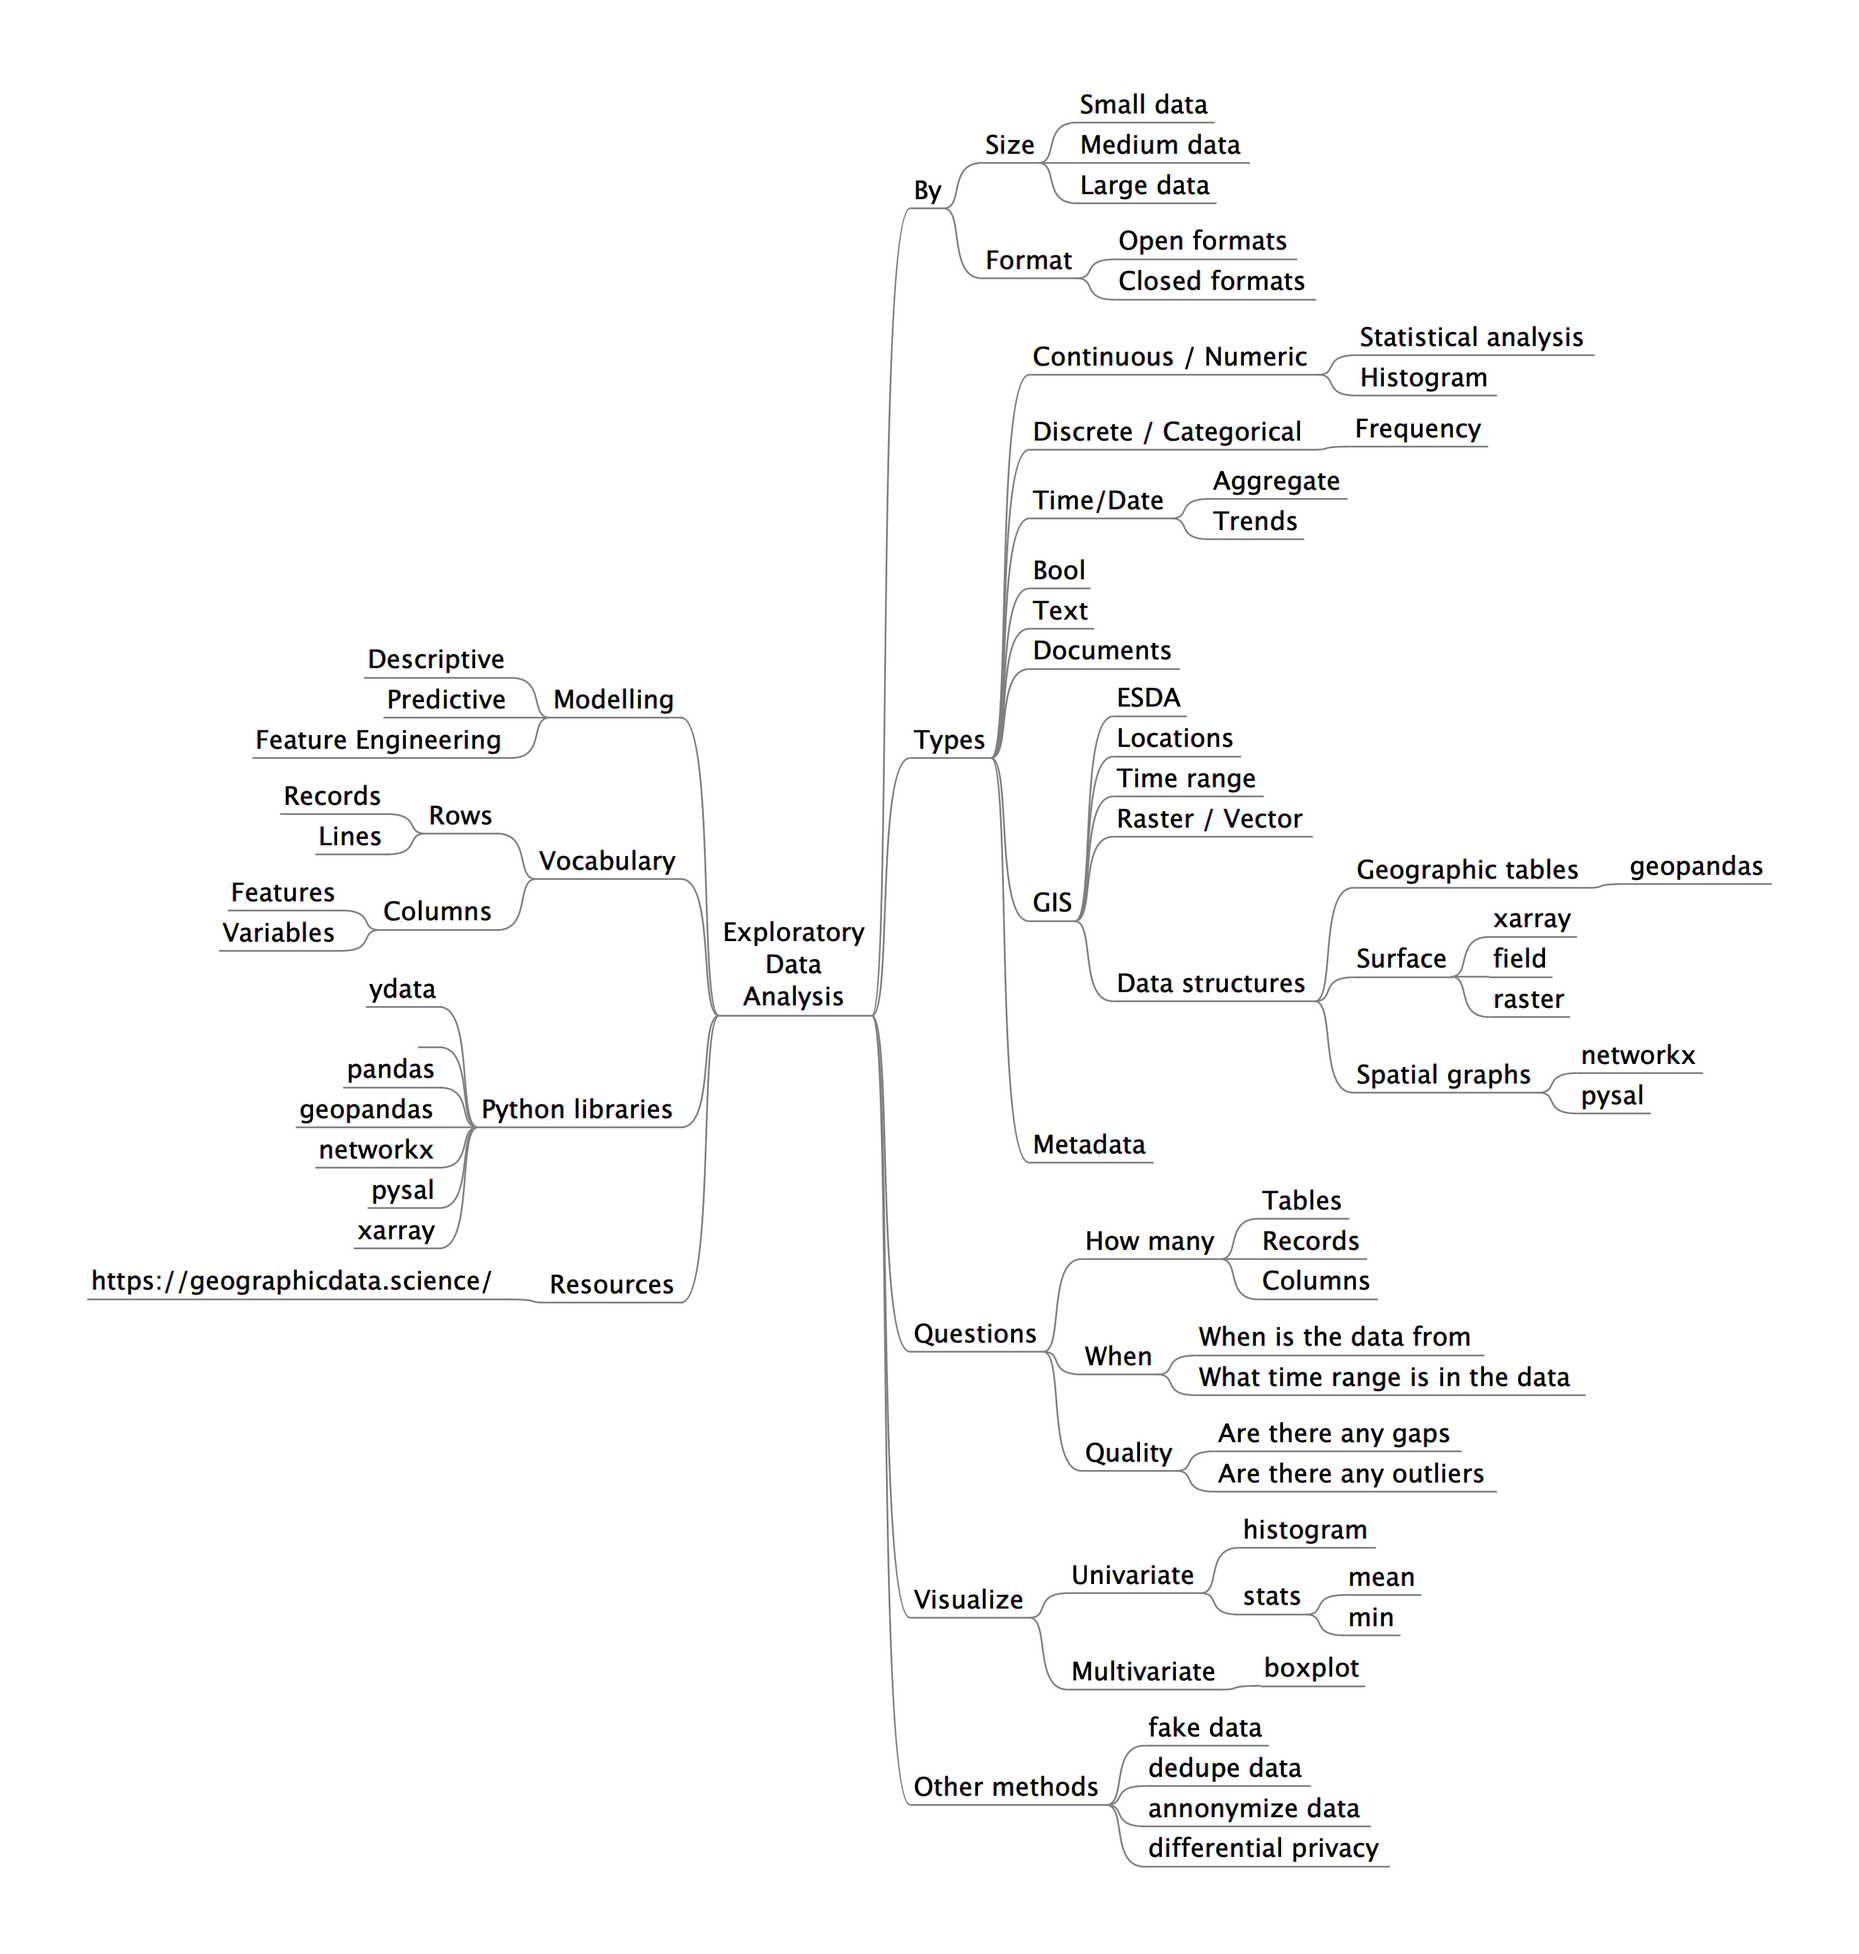
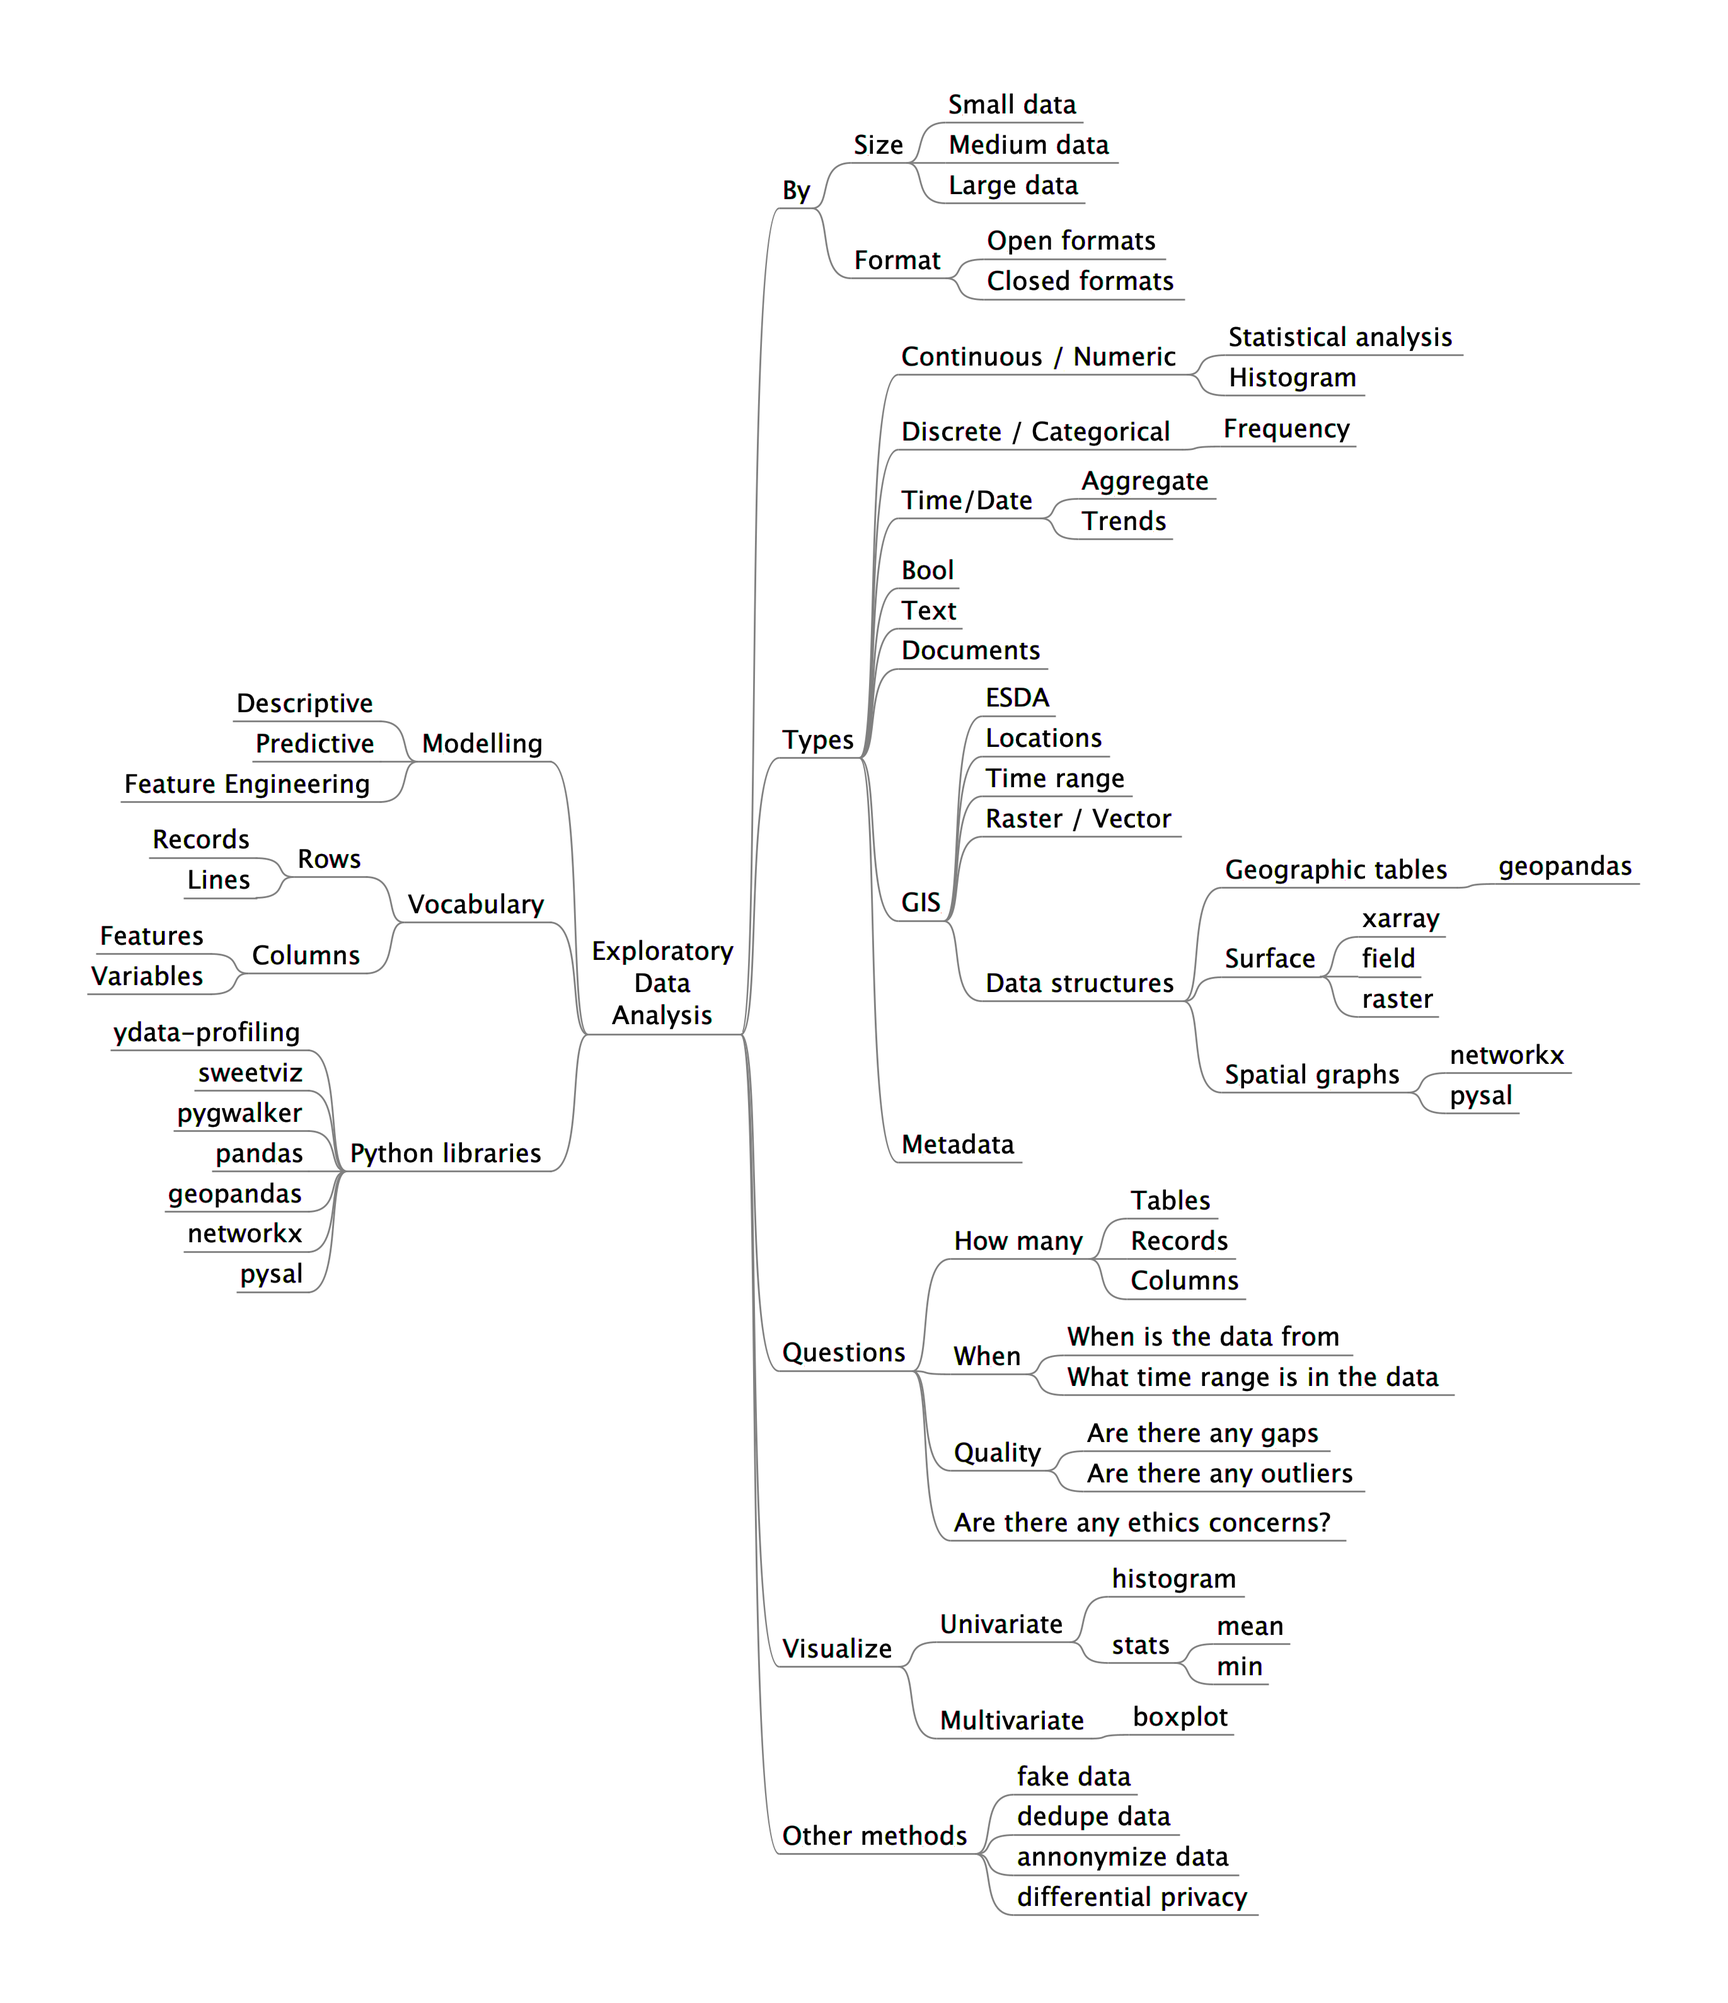
Add mindmap

diff --git a/eda.mm b/eda.mm
@@ -1,0 +1,176 @@
+<map version="freeplane 1.11.5">
+<!--To view this file, download free mind mapping software Freeplane from https://www.freeplane.org -->
+<node TEXT="Exploratory&#xa;Data&#xa;Analysis" FOLDED="false" ID="ID_1122789912" CREATED="1698519591730" MODIFIED="1698519608608"><hook NAME="MapStyle">
+    <properties edgeColorConfiguration="#808080ff,#ff0000ff,#0000ffff,#00ff00ff,#ff00ffff,#00ffffff,#7c0000ff,#00007cff,#007c00ff,#7c007cff,#007c7cff,#7c7c00ff" fit_to_viewport="false" show_icon_for_attributes="true" show_note_icons="true"/>
+
+<map_styles>
+<stylenode LOCALIZED_TEXT="styles.root_node" STYLE="oval" UNIFORM_SHAPE="true" VGAP_QUANTITY="24 pt">
+<font SIZE="24"/>
+<stylenode LOCALIZED_TEXT="styles.predefined" POSITION="bottom_or_right" STYLE="bubble">
+<stylenode LOCALIZED_TEXT="default" ID="ID_271890427" ICON_SIZE="12 pt" COLOR="#000000" STYLE="fork">
+<arrowlink SHAPE="CUBIC_CURVE" COLOR="#000000" WIDTH="2" TRANSPARENCY="200" DASH="" FONT_SIZE="9" FONT_FAMILY="SansSerif" DESTINATION="ID_271890427" STARTARROW="NONE" ENDARROW="DEFAULT"/>
+<font NAME="SansSerif" SIZE="10" BOLD="false" ITALIC="false"/>
+<richcontent TYPE="DETAILS" CONTENT-TYPE="plain/auto"/>
+<richcontent TYPE="NOTE" CONTENT-TYPE="plain/auto"/>
+</stylenode>
+<stylenode LOCALIZED_TEXT="defaultstyle.details"/>
+<stylenode LOCALIZED_TEXT="defaultstyle.attributes">
+<font SIZE="9"/>
+</stylenode>
+<stylenode LOCALIZED_TEXT="defaultstyle.note" COLOR="#000000" BACKGROUND_COLOR="#ffffff" TEXT_ALIGN="LEFT"/>
+<stylenode LOCALIZED_TEXT="defaultstyle.floating">
+<edge STYLE="hide_edge"/>
+<cloud COLOR="#f0f0f0" SHAPE="ROUND_RECT"/>
+</stylenode>
+<stylenode LOCALIZED_TEXT="defaultstyle.selection" BACKGROUND_COLOR="#afd3f7" BORDER_COLOR_LIKE_EDGE="false" BORDER_COLOR="#afd3f7"/>
+</stylenode>
+<stylenode LOCALIZED_TEXT="styles.user-defined" POSITION="bottom_or_right" STYLE="bubble">
+<stylenode LOCALIZED_TEXT="styles.topic" COLOR="#18898b" STYLE="fork">
+<font NAME="Liberation Sans" SIZE="10" BOLD="true"/>
+</stylenode>
+<stylenode LOCALIZED_TEXT="styles.subtopic" COLOR="#cc3300" STYLE="fork">
+<font NAME="Liberation Sans" SIZE="10" BOLD="true"/>
+</stylenode>
+<stylenode LOCALIZED_TEXT="styles.subsubtopic" COLOR="#669900">
+<font NAME="Liberation Sans" SIZE="10" BOLD="true"/>
+</stylenode>
+<stylenode LOCALIZED_TEXT="styles.important" ID="ID_67550811">
+<icon BUILTIN="yes"/>
+<arrowlink COLOR="#003399" TRANSPARENCY="255" DESTINATION="ID_67550811"/>
+</stylenode>
+</stylenode>
+<stylenode LOCALIZED_TEXT="styles.AutomaticLayout" POSITION="bottom_or_right" STYLE="bubble">
+<stylenode LOCALIZED_TEXT="AutomaticLayout.level.root" COLOR="#000000" STYLE="oval" SHAPE_HORIZONTAL_MARGIN="10 pt" SHAPE_VERTICAL_MARGIN="10 pt">
+<font SIZE="18"/>
+</stylenode>
+<stylenode LOCALIZED_TEXT="AutomaticLayout.level,1" COLOR="#0033ff">
+<font SIZE="16"/>
+</stylenode>
+<stylenode LOCALIZED_TEXT="AutomaticLayout.level,2" COLOR="#00b439">
+<font SIZE="14"/>
+</stylenode>
+<stylenode LOCALIZED_TEXT="AutomaticLayout.level,3" COLOR="#990000">
+<font SIZE="12"/>
+</stylenode>
+<stylenode LOCALIZED_TEXT="AutomaticLayout.level,4" COLOR="#111111">
+<font SIZE="10"/>
+</stylenode>
+<stylenode LOCALIZED_TEXT="AutomaticLayout.level,5"/>
+<stylenode LOCALIZED_TEXT="AutomaticLayout.level,6"/>
+<stylenode LOCALIZED_TEXT="AutomaticLayout.level,7"/>
+<stylenode LOCALIZED_TEXT="AutomaticLayout.level,8"/>
+<stylenode LOCALIZED_TEXT="AutomaticLayout.level,9"/>
+<stylenode LOCALIZED_TEXT="AutomaticLayout.level,10"/>
+<stylenode LOCALIZED_TEXT="AutomaticLayout.level,11"/>
+</stylenode>
+</stylenode>
+</map_styles>
+</hook>
+<node TEXT="By" POSITION="bottom_or_right" ID="ID_83050720" CREATED="1698519609954" MODIFIED="1698519621032">
+<node TEXT="Size" ID="ID_1162008450" CREATED="1698519621394" MODIFIED="1698519623233">
+<node TEXT="Small data" ID="ID_1060160019" CREATED="1698519955548" MODIFIED="1698519962160"/>
+<node TEXT="Medium data" ID="ID_1662055890" CREATED="1698519962303" MODIFIED="1698519965183"/>
+<node TEXT="Large data" ID="ID_383174318" CREATED="1698519965355" MODIFIED="1698519967935"/>
+</node>
+<node TEXT="Format" ID="ID_258649436" CREATED="1698519623665" MODIFIED="1698519635468">
+<node TEXT="Open formats" ID="ID_1922638540" CREATED="1698519969557" MODIFIED="1698519977736"/>
+<node TEXT="Closed formats" ID="ID_762052706" CREATED="1698519977920" MODIFIED="1698519983335"/>
+</node>
+</node>
+<node TEXT="Types" POSITION="bottom_or_right" ID="ID_680999524" CREATED="1698519642142" MODIFIED="1698519644504">
+<node TEXT="Continuous / Numeric" ID="ID_747903519" CREATED="1698519644768" MODIFIED="1698596664711">
+<node TEXT="Statistical analysis" ID="ID_1319336939" CREATED="1698519733505" MODIFIED="1698519739744"/>
+<node TEXT="Histogram" ID="ID_1475727477" CREATED="1698596672291" MODIFIED="1698596674309"/>
+</node>
+<node TEXT="Discrete / Categorical" ID="ID_1981457214" CREATED="1698519647301" MODIFIED="1698596658263">
+<node TEXT="Frequency" ID="ID_1957576187" CREATED="1698519728377" MODIFIED="1698519731363"/>
+</node>
+<node TEXT="Time/Date" ID="ID_114147419" CREATED="1698519649409" MODIFIED="1698519656052">
+<node TEXT="Aggregate" ID="ID_1682960681" CREATED="1698519741415" MODIFIED="1698519746491"/>
+<node TEXT="Trends" ID="ID_1704920725" CREATED="1699671676609" MODIFIED="1699671678504"/>
+</node>
+<node TEXT="Bool" ID="ID_862994811" CREATED="1698519656435" MODIFIED="1698519660252"/>
+<node TEXT="Text" ID="ID_556046443" CREATED="1698519660590" MODIFIED="1698519662028"/>
+<node TEXT="Documents" ID="ID_647429371" CREATED="1698519986086" MODIFIED="1698519987855"/>
+<node TEXT="GIS" ID="ID_902198234" CREATED="1698519662578" MODIFIED="1698519666189">
+<node TEXT="ESDA" ID="ID_1823105071" CREATED="1698599780111" MODIFIED="1698599782137"/>
+<node TEXT="Locations" ID="ID_1093646619" CREATED="1698520011927" MODIFIED="1698520018754"/>
+<node TEXT="Time range" ID="ID_195970838" CREATED="1698520019301" MODIFIED="1698520024602"/>
+<node TEXT="Raster / Vector" ID="ID_1097777481" CREATED="1698527927145" MODIFIED="1698527932598"/>
+<node TEXT="Data structures" ID="ID_720158149" CREATED="1698526549558" MODIFIED="1698526554601">
+<node TEXT="Geographic tables" ID="ID_631620198" CREATED="1698526554979" MODIFIED="1698526558927">
+<node TEXT="geopandas" ID="ID_1122878914" CREATED="1698526587697" MODIFIED="1698526590401"/>
+</node>
+<node TEXT="Surface" ID="ID_824743950" CREATED="1698526607814" MODIFIED="1698526610869">
+<node TEXT="xarray" ID="ID_88162531" CREATED="1698526819780" MODIFIED="1698528081015"/>
+<node TEXT="field" ID="ID_705427795" CREATED="1698528072212" MODIFIED="1698528073926"/>
+<node TEXT="raster" ID="ID_1644139253" CREATED="1698528074198" MODIFIED="1698528078282"/>
+</node>
+<node TEXT="Spatial graphs" ID="ID_1446968480" CREATED="1698526829863" MODIFIED="1698526832981">
+<node TEXT="networkx" ID="ID_533875533" CREATED="1698526859517" MODIFIED="1698526864301"/>
+<node TEXT="pysal" ID="ID_24716344" CREATED="1698526911595" MODIFIED="1698526913362"/>
+</node>
+</node>
+</node>
+<node TEXT="Metadata" ID="ID_1844319513" CREATED="1698520033664" MODIFIED="1698520035540"/>
+</node>
+<node TEXT="Questions" POSITION="bottom_or_right" ID="ID_64996509" CREATED="1698519805134" MODIFIED="1698519808832">
+<node TEXT="How many" ID="ID_778491026" CREATED="1698519827322" MODIFIED="1698519847011">
+<node TEXT="Tables" ID="ID_1124592978" CREATED="1698519819387" MODIFIED="1698519859199"/>
+<node TEXT="Records" ID="ID_1444125267" CREATED="1698519814412" MODIFIED="1698519855075"/>
+<node TEXT="Columns" ID="ID_569289953" CREATED="1698519841912" MODIFIED="1698519843315"/>
+</node>
+<node TEXT="When" ID="ID_1133041218" CREATED="1698519873618" MODIFIED="1698519875856">
+<node TEXT="When is the data from" ID="ID_535494352" CREATED="1698519877318" MODIFIED="1698519882177"/>
+<node TEXT="What time range is in the data" ID="ID_1185049751" CREATED="1698519882358" MODIFIED="1698519887508"/>
+</node>
+<node TEXT="Quality" ID="ID_568434005" CREATED="1698519888433" MODIFIED="1698519890556">
+<node TEXT="Are there any gaps" ID="ID_1261094462" CREATED="1698519890840" MODIFIED="1698519895002"/>
+<node TEXT="Are there any outliers" ID="ID_1147325950" CREATED="1698519896992" MODIFIED="1698519901381"/>
+</node>
+<node TEXT="Are there any ethics concerns?" ID="ID_634777636" CREATED="1699675603803" MODIFIED="1699675613087"/>
+</node>
+<node TEXT="Visualize" POSITION="bottom_or_right" ID="ID_351670330" CREATED="1698519672921" MODIFIED="1698519782471">
+<node TEXT="Univariate" ID="ID_993052033" CREATED="1698519675275" MODIFIED="1698519677440">
+<node TEXT="histogram" ID="ID_536821635" CREATED="1698596688100" MODIFIED="1698596690303"/>
+<node TEXT="stats" ID="ID_1565181660" CREATED="1698596702695" MODIFIED="1698596703764">
+<node TEXT="mean" ID="ID_1426146644" CREATED="1698596703975" MODIFIED="1698596705860"/>
+<node TEXT="min" ID="ID_1211886243" CREATED="1698596706015" MODIFIED="1698596707542"/>
+</node>
+</node>
+<node TEXT="Multivariate" ID="ID_503341495" CREATED="1698519677621" MODIFIED="1698519680640">
+<node TEXT="boxplot" ID="ID_1372181676" CREATED="1698596684507" MODIFIED="1698596686800"/>
+</node>
+</node>
+<node TEXT="Modelling" POSITION="top_or_left" ID="ID_1020347446" CREATED="1698519686080" MODIFIED="1698519688754">
+<node TEXT="Descriptive" ID="ID_1766874109" CREATED="1698519688963" MODIFIED="1698519697971"/>
+<node TEXT="Predictive" ID="ID_1398605126" CREATED="1698519698774" MODIFIED="1698519701273"/>
+<node TEXT="Feature Engineering" ID="ID_1103753184" CREATED="1698519703559" MODIFIED="1698519708365"/>
+</node>
+<node TEXT="Vocabulary" POSITION="top_or_left" ID="ID_1675482805" CREATED="1698519915169" MODIFIED="1698519919932">
+<node TEXT="Rows" ID="ID_1474071383" CREATED="1698519920335" MODIFIED="1698519924584">
+<node TEXT="Records" ID="ID_527880031" CREATED="1698519924821" MODIFIED="1698519926628"/>
+<node TEXT="Lines" ID="ID_903342798" CREATED="1698519926850" MODIFIED="1698519927792"/>
+</node>
+<node TEXT="Columns" ID="ID_1089991544" CREATED="1698519929891" MODIFIED="1698519931746">
+<node TEXT="Features" ID="ID_1536545565" CREATED="1698519932317" MODIFIED="1698519936038"/>
+<node TEXT="Variables" ID="ID_650853536" CREATED="1698519938105" MODIFIED="1698519941311"/>
+</node>
+</node>
+<node TEXT="Python libraries" POSITION="top_or_left" ID="ID_1930377478" CREATED="1698526930299" MODIFIED="1698526937817">
+<node TEXT="ydata-profiling" ID="ID_1565682273" CREATED="1698527962317" MODIFIED="1699677725579"/>
+<node TEXT="sweetviz" ID="ID_55470395" CREATED="1698527965924" MODIFIED="1699677748760"/>
+<node TEXT="pygwalker" ID="ID_17265904" CREATED="1699677742670" MODIFIED="1699690297679"/>
+<node TEXT="pandas" ID="ID_248518991" CREATED="1698526938584" MODIFIED="1698526943184"/>
+<node TEXT="geopandas" ID="ID_1976182140" CREATED="1698526943524" MODIFIED="1698526946723"/>
+<node TEXT="networkx" ID="ID_1051022158" CREATED="1698526947234" MODIFIED="1698526949490"/>
+<node TEXT="pysal" ID="ID_776220947" CREATED="1698526949836" MODIFIED="1698526951295"/>
+</node>
+<node TEXT="Other methods" POSITION="bottom_or_right" ID="ID_834897954" CREATED="1699553898863" MODIFIED="1699553905764">
+<node TEXT="fake data" ID="ID_378024959" CREATED="1699553906041" MODIFIED="1699553909223"/>
+<node TEXT="dedupe data" ID="ID_1568366691" CREATED="1699553909589" MODIFIED="1699553914816"/>
+<node TEXT="annonymize data" ID="ID_234925360" CREATED="1699553915148" MODIFIED="1699553924318"/>
+<node TEXT="differential privacy" ID="ID_554725417" CREATED="1699553933194" MODIFIED="1699553938507"/>
+</node>
+</node>
+</map>

diff --git a/README.md b/README.md
@@ -1,5 +1,7 @@
 # Exploratory Data Analysis
 
+This repository was prepared for CorrelCon 2023. Slides are available [here](https://docs.google.com/presentation/d/1mYtzt5Tfk_xbYSWUBRgiNH5TumJNUWlRVDMeyntee_w/edit?usp=sharing).
+
 ## How to use this repository
 
 You can clone this repository and use it locally as follows.
@@ -117,4 +119,11 @@ mindmap
 - How many files, tables, databases?
 - Per item: How many columns and rows?
 - Are there any encoding issues?
-- 
+- Verify data types of columns: Discrete, Continuous, Dates, other.
+- Univariate analysis
+  - Histogram
+  - Bar plot
+  - Boxplot
+- Multivariate analysis
+  - Correlations
+  - Use target variable to visualize other features
